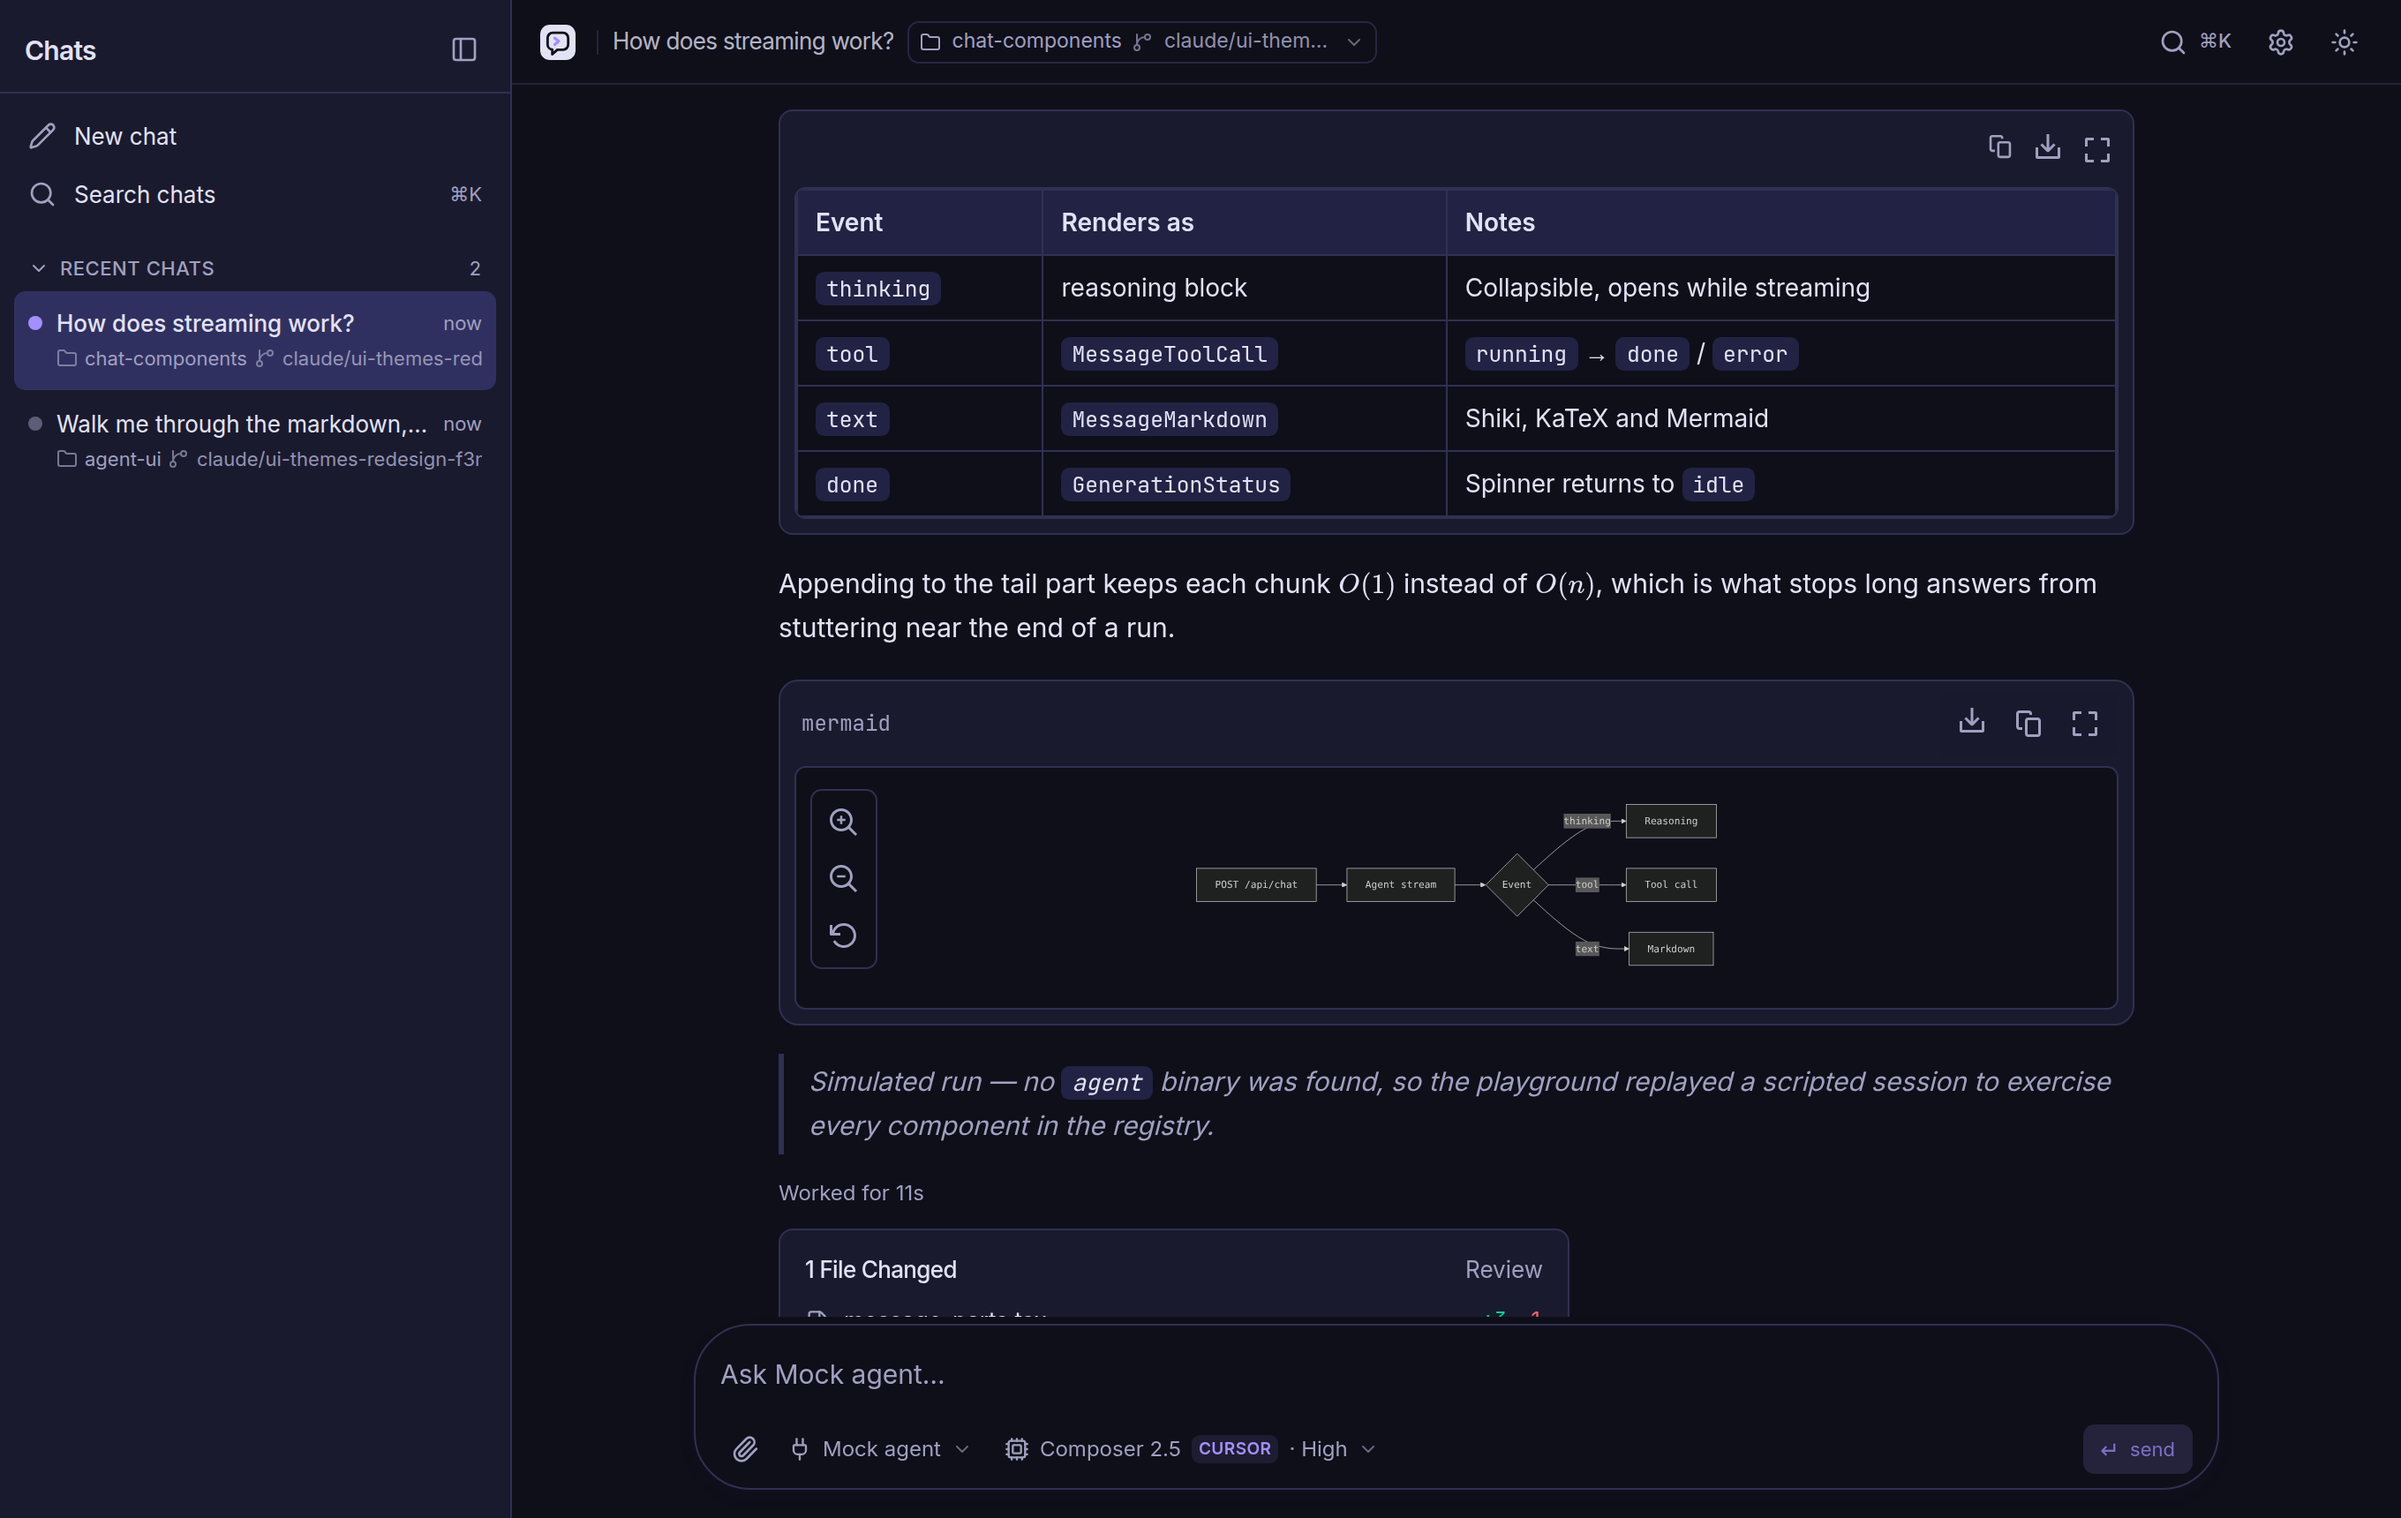
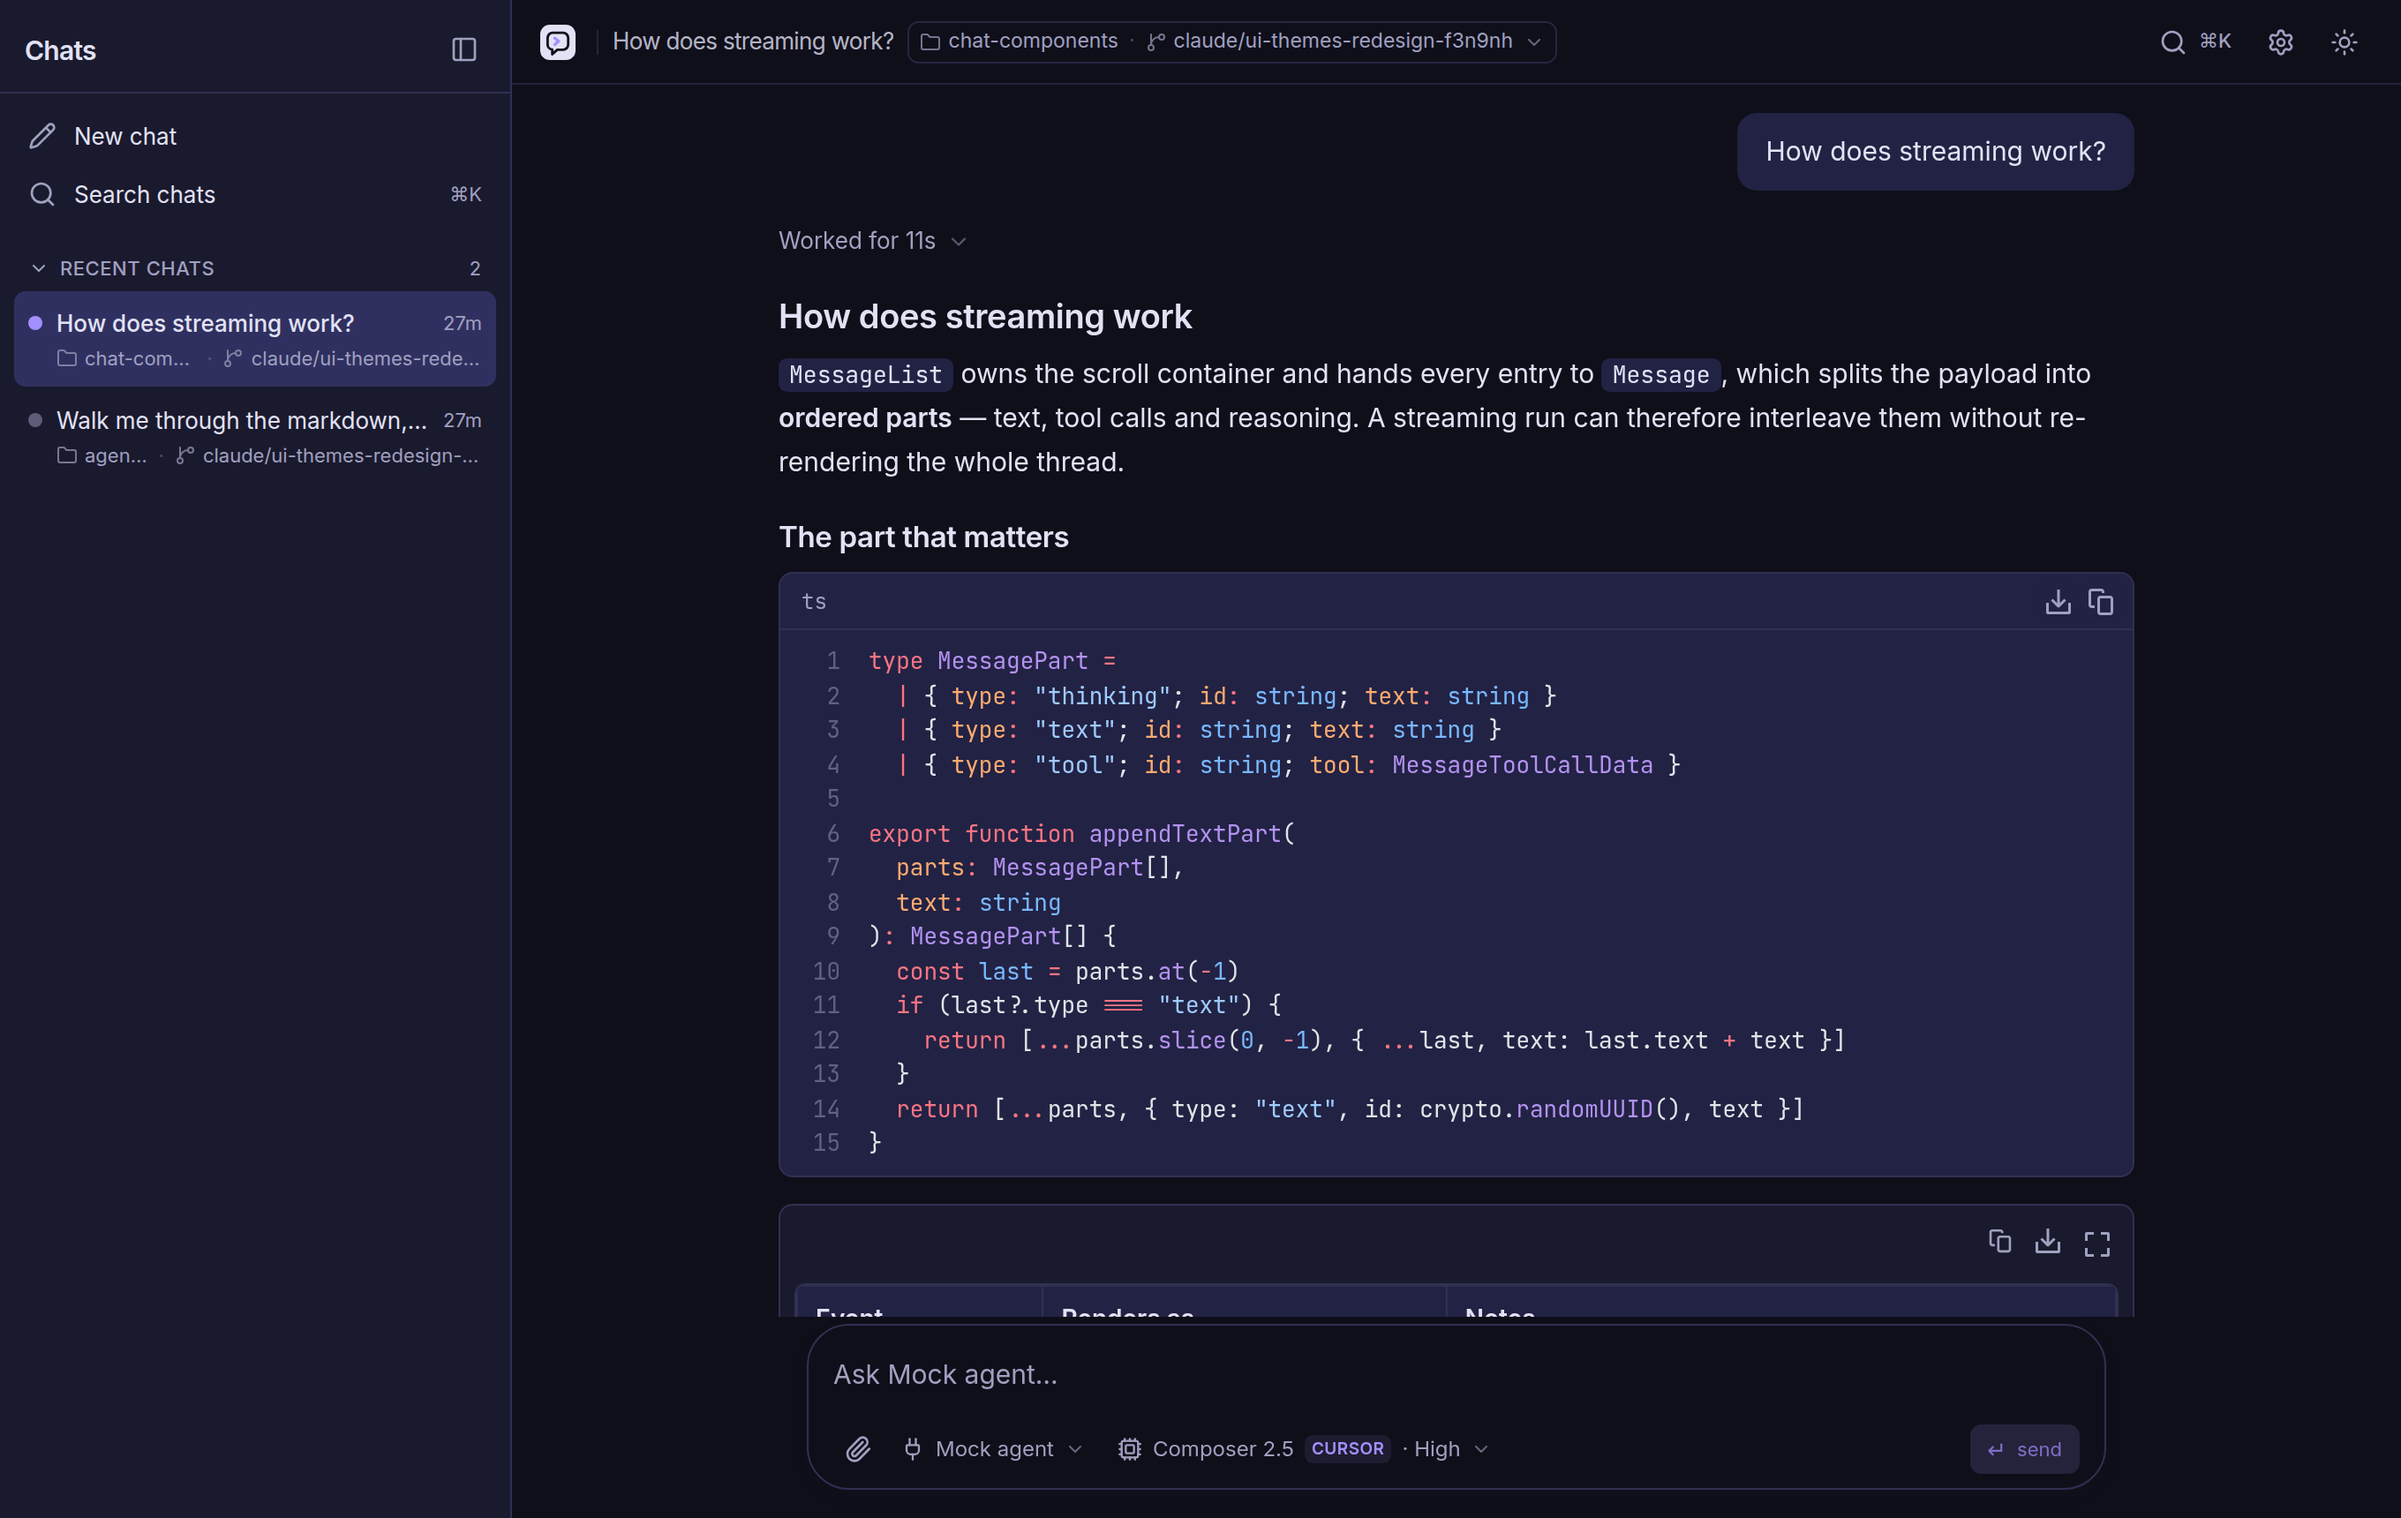
docs: retake the screenshots against the redesigned components
The set was refreshed just before the sync, so it showed the old rounder
composer and the braille spinner. Same three scenes, current UI — and the
dark-mode shot now leads with the collapsed "Worked for 11s" row, which
is the change worth seeing. README gains one clause for it.

Claude-Session: https://claude.ai/code/session_01RrSs9HhH1RMCWoyMWhYyTP

diff --git a/README.md b/README.md
@@ -6,7 +6,7 @@ A fast, local-first **desktop app** for coding agents. One interface, swappable 
 
 ![Agent UI — streaming agent run](.github/screenshots/chat-run.png)
 
-Reasoning streams, tool calls with live status (including failures), Shiki code, tables, KaTeX and Mermaid, a files-changed summary with per-file diff stats — every turn is rendered from the shared `AgentStreamEvent` protocol, whatever backend produced it.
+Reasoning streams, tool calls with live status (including failures), Shiki code, tables, KaTeX and Mermaid, a files-changed summary with per-file diff stats — every turn is rendered from the shared `AgentStreamEvent` protocol, whatever backend produced it. While a turn runs you watch it work; once it settles, the reasoning and tool calls fold into a single "Worked for 12s" row above the answer, one click from being opened again.
 
 | Dark mode (Cosmic Night theme) | ⌘K command palette |
 | --- | --- |
